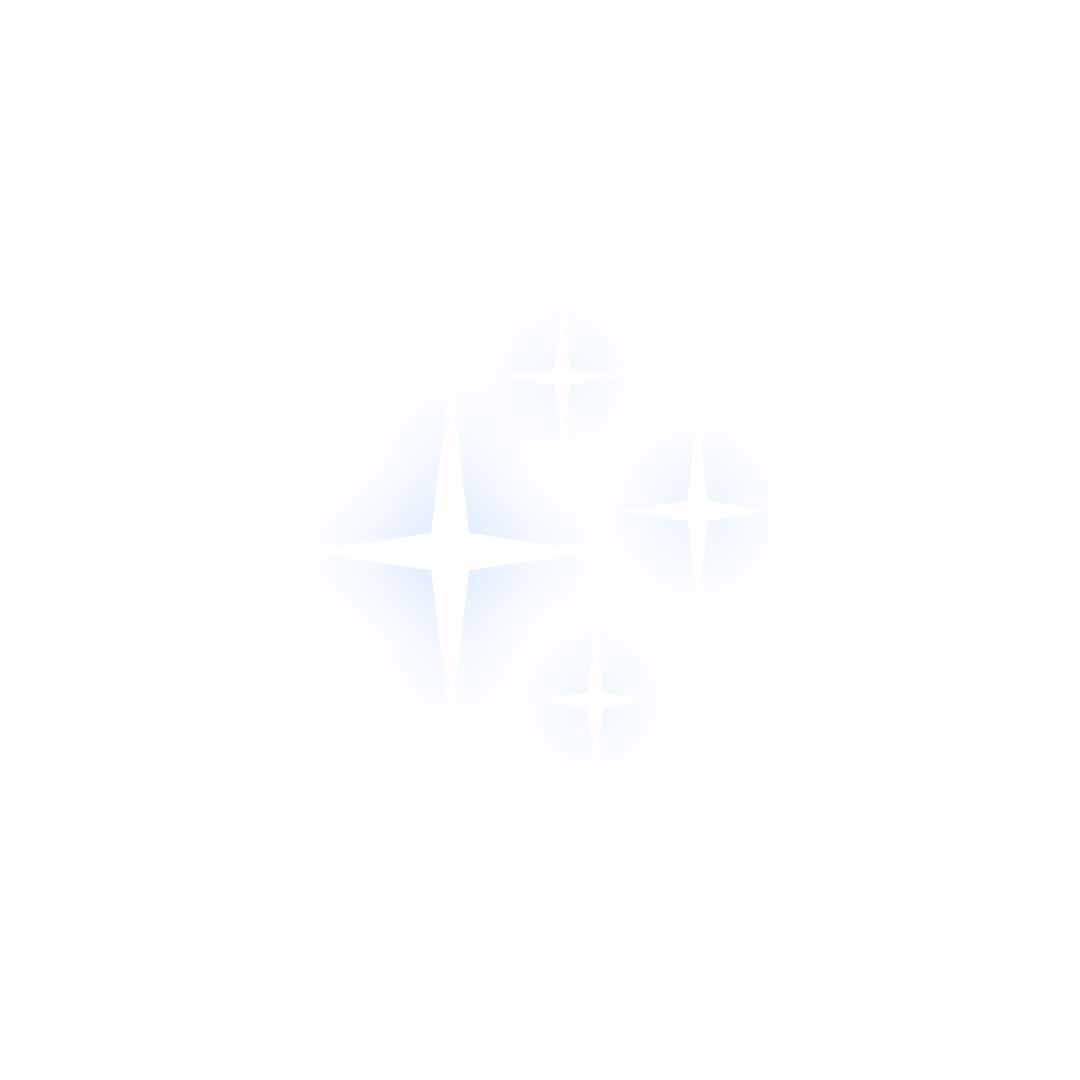
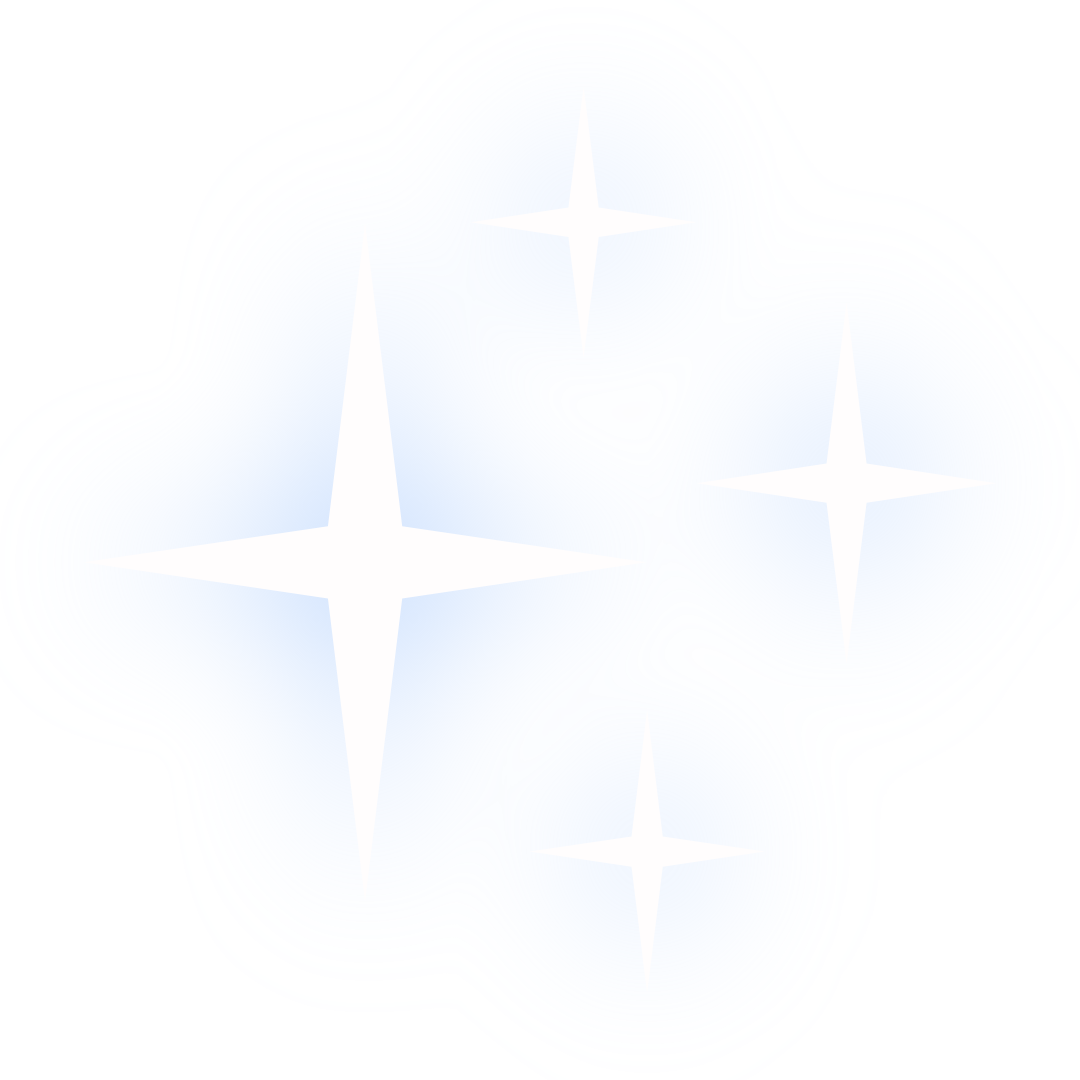
add cool page

diff --git a/src/pages/me.tsx b/src/pages/me.tsx
@@ -12,14 +12,41 @@ export default function Me() {
   }, []);
 
   return (
-    <div className="py-48 flex items-center justify-center">
-      <div
-        className={`text-4xl font-semibold transition-opacity duration-150000 ${isVisible ? "opacity-100" : "opacity-0"}`}
-      >
-        hi!
+    <>
+      <div className="relative">
+        <div className="z-0 absolute top-[220px] left-[370px] animate-pulse">
+          <img
+            src="/10.png"
+            alt="blue star"
+            style={{ width: "20%", height: "auto", opacity: 1.5 }}
+          />
+        </div>
+        <div className="z-0 absolute top-[100px] left-[900px] animate-pulse">
+          <img
+            src="/9.png"
+            alt="purple stars"
+            style={{ width: "30%", height: "auto", opacity: 1.0 }}
+          />
+        </div>
+        <div className="z-0 absolute top-[320px] left-[850px] animate-pulse">
+          <img
+            src="/8.png"
+            alt="light blue stars"
+            style={{ width: "30%", height: "auto", opacity: 1.0 }}
+          />
+        </div>
       </div>
-      <div>this is going to be a cool easter egg!</div>
-    </div>
+      <div className="py-64 flex items-center justify-center flex-col ">
+        <div
+          className={`text-4xl text-gray-700 font-semibold z-20 transition-opacity duration-150000 ${isVisible ? "opacity-100" : "opacity-0"}`}
+        >
+          hi!
+        </div>
+        <div className="pt-4 text-gray-700">
+          this is going to be a cool easter egg!
+        </div>
+      </div>
+    </>
   );
 }
 
